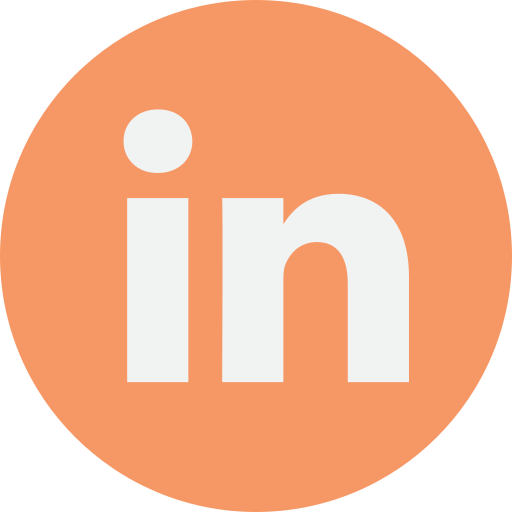
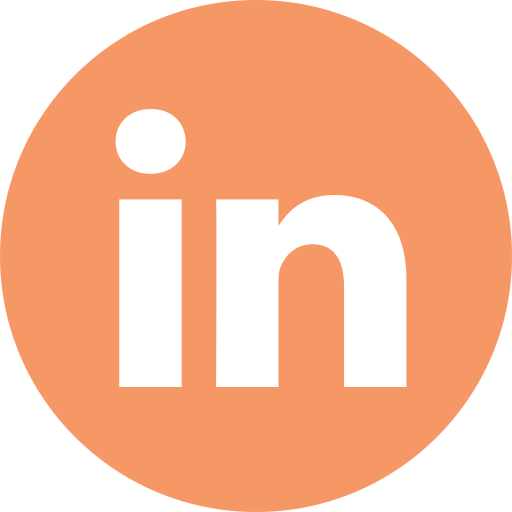
footer changes

diff --git a/index.html b/index.html
@@ -204,10 +204,10 @@
                     <a href="https://www.linkedin.com/in/cosma-patricia/" target="_blank"><img src="/img/linkedin.png"></a>
                 </div>
                 <div class="social-item">
-                    <a href="https://www.linkedin.com/in/cosma-patricia/" target="_blank"><img src="/img/linkedin.png"></a>
+                    <a href="https://github.com/patricia-cosma" target="_blank"><img src="/img/github.png"></a>
                 </div>
                 <div class="social-item">
-                    <a href="https://www.linkedin.com/in/cosma-patricia/" target="_blank"><img src="/img/linkedin.png"></a>
+                    <a href="https://twitter.com/pnc_frontenddev" target="_blank"><img src="/img/twitter.png"></a>
                 </div>
             </div>
             <p>Copyright © 2022 Cosma. All rights reserved.</p>
